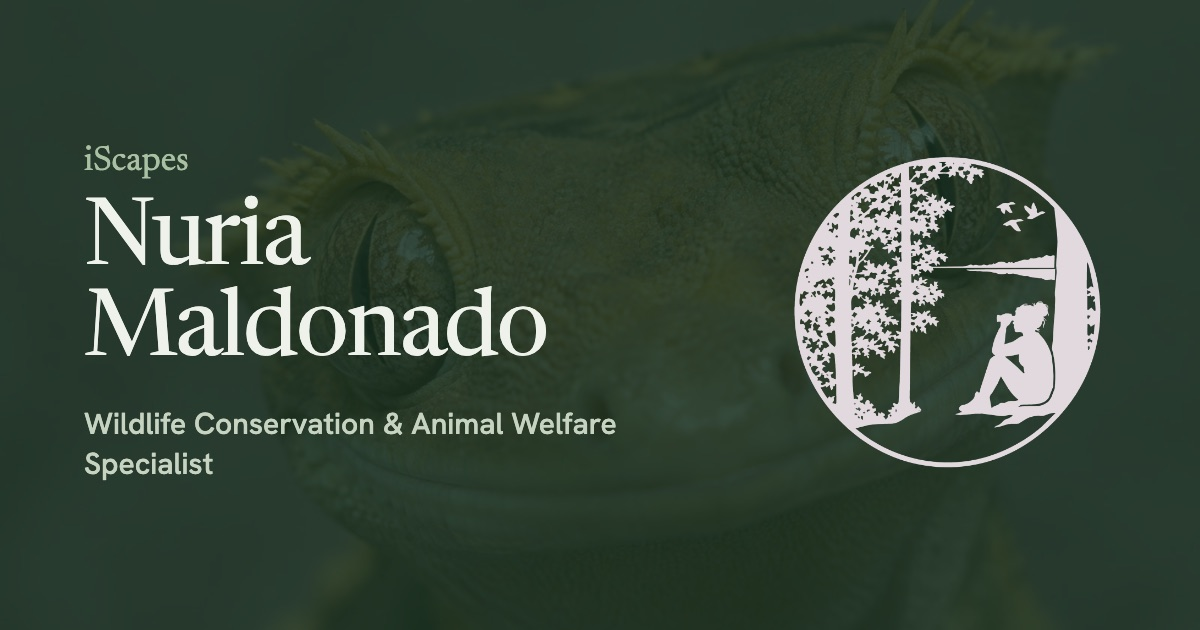
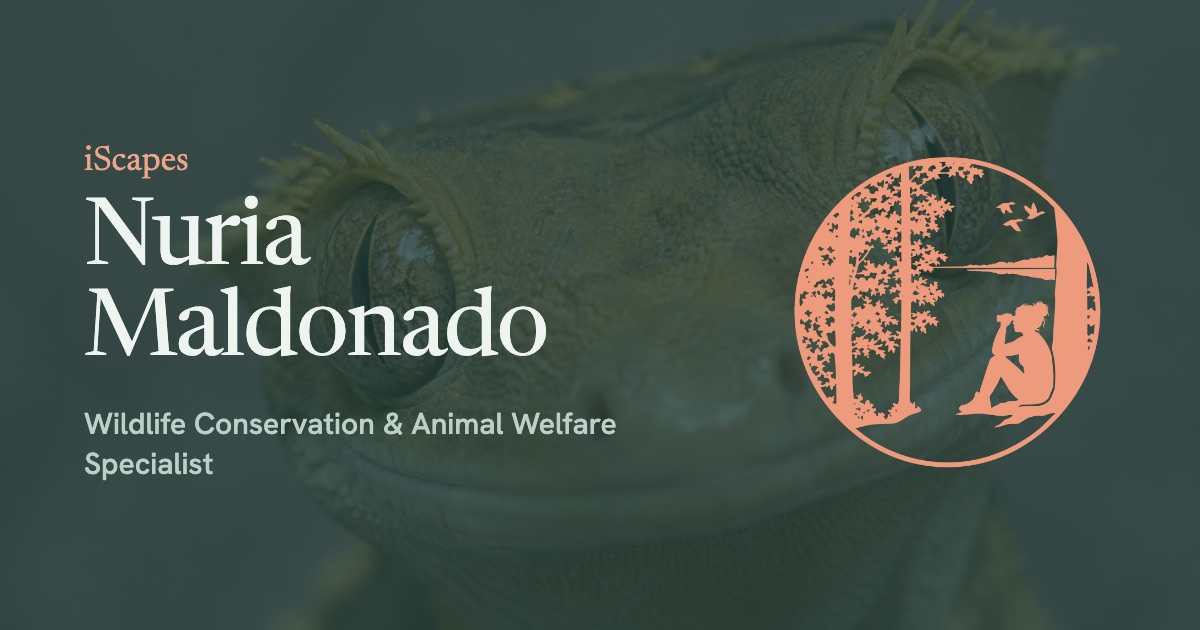
Eucalyptus & coral design
- Eucalyptus first section and contact, pale mint quote, light page
- Coral logo, tagline and buttons; deep coral details on light sections
- Single look for all visitors (no separate dark-mode palette)
- Preview cards, favicon and home-screen icon remade in the new colours
- Unused logo colours removed

diff --git a/assets/site.css b/assets/site.css
@@ -1,13 +1,11 @@
-:root{--bg:#F5F6F2;--ink:#111A14;--mute:#4D5B50;--line:#D3D9CF;--forest:#16301F;--forest-ink:#EEF2EA;--sage:#A9C0A2;--btn:#16301F;--btn-ink:#F5F6F2;--hero-bg:#EFE3D2;--hero-ink:#2B1D12;--hero-mute:#6E5643;--hero-line:#B9A58F;--accent:#A0522D;--accent-ink:#FFF6EC;
+:root{--bg:#F5F8F6;--ink:#16302B;--mute:#4C625D;--line:#D3DFDA;--forest:#1F3D37;--forest-ink:#EEF5F1;--forest-mute:#BCD0C8;--sage:#9CC5B8;--btn:#EE9A7C;--btn-ink:#2A120A;--hero-bg:#1F3D37;--hero-ink:#EEF5F1;--hero-mute:#BCD0C8;--hero-line:#4F716A;--accent:#F0A58A;--quote-bg:#DDEAE4;--quote-ink:#16302B;--quote-cite:#9C4429;--deep:#B45237;
 box-sizing:border-box;padding-top:env(safe-area-inset-top,0px);padding-bottom:env(safe-area-inset-bottom,0px);color-scheme:light}
-@media (prefers-color-scheme:dark){:root:not([data-theme="light"]){--hero-bg:#2A1E16;--hero-ink:#F2E6D6;--hero-mute:#C9B49E;--hero-line:#6E5A48;--accent:#D98A5F;--accent-ink:#24170F;--bg:#0F1712;--ink:#E9EEE6;--mute:#9AA99C;--line:#26362B;--forest:#1B3A26;--btn:#A9C0A2;--btn-ink:#0F1712;color-scheme:dark}}
-:root[data-theme="dark"]{--hero-bg:#2A1E16;--hero-ink:#F2E6D6;--hero-mute:#C9B49E;--hero-line:#6E5A48;--accent:#D98A5F;--accent-ink:#24170F;--bg:#0F1712;--ink:#E9EEE6;--mute:#9AA99C;--line:#26362B;--forest:#1B3A26;--btn:#A9C0A2;--btn-ink:#0F1712;color-scheme:dark}
 *,*::before,*::after{box-sizing:border-box}
 html{scroll-padding-top:env(safe-area-inset-top,0px);scroll-behavior:smooth}
 body{margin:0;background:var(--bg);color:var(--ink);font:400 1.0625rem/1.65 "Hanken Grotesk",system-ui,sans-serif;-webkit-font-smoothing:antialiased}
 h1,h2,h3,blockquote{font-family:"Newsreader",Georgia,serif;font-weight:400;margin:0}
 a{color:inherit}
-:focus-visible{outline:2px solid var(--sage);outline-offset:3px}
+:focus-visible{outline:2px solid var(--deep);outline-offset:3px}
 .wrap{max-width:1160px;margin:0 auto;padding:0 clamp(20px,5vw,56px)}
 .logo{display:block;width:100%;height:auto}
 
@@ -24,11 +22,9 @@ nav a:hover{color:var(--hero-ink)}
 .hero::after{content:"";position:absolute;inset:-120px 0 0;z-index:-2;background:var(--hero-bg)}
 .hero .role,.hero .lead{color:var(--hero-mute)}
 .hero .tag{color:var(--accent)}
-.hero .btn{background:var(--accent);border-color:var(--accent);color:var(--accent-ink)}
+.hero .btn{background:var(--btn);border-color:var(--btn);color:var(--btn-ink)}
 .hero .btn.ghost{background:transparent;color:var(--hero-ink);border-color:var(--hero-ink)}
-.hero::before{content:"";position:absolute;inset:-120px 0 0;z-index:-1;background:url(gecko.jpg) 62% 40%/cover no-repeat;opacity:.15;-webkit-mask-image:linear-gradient(to bottom,#000 55%,transparent);mask-image:linear-gradient(to bottom,#000 55%,transparent)}
-@media (prefers-color-scheme:dark){:root:not([data-theme="light"]) .hero::before{opacity:.2}}
-:root[data-theme="dark"] .hero::before{opacity:.2}
+.hero::before{content:"";position:absolute;inset:-120px 0 0;z-index:-1;background:url(gecko.jpg) 62% 40%/cover no-repeat;opacity:.24;-webkit-mask-image:linear-gradient(to bottom,#000 55%,transparent);mask-image:linear-gradient(to bottom,#000 55%,transparent)}
 .hero .wrap{display:grid;grid-template-columns:1.15fr .85fr;gap:clamp(32px,6vw,88px);align-items:center}
 .hero h1{font-size:clamp(2.9rem,7.2vw,6rem);line-height:.98;letter-spacing:-.02em}
 .role{margin:22px 0 0;font-size:1.2rem;color:var(--mute)}
@@ -44,17 +40,18 @@ nav a:hover{color:var(--hero-ink)}
 @keyframes rise{from{opacity:0;transform:translateY(18px)}}
 @media(max-width:820px){.hero .wrap{grid-template-columns:1fr}.hero figure{order:-1;max-width:260px;justify-self:start}}
 
-.quote{background:var(--forest);color:var(--forest-ink);padding:clamp(64px,10vw,130px) 0;position:relative;overflow:hidden}
+.quote{background:var(--quote-bg);color:var(--quote-ink);padding:clamp(64px,10vw,130px) 0;position:relative;overflow:hidden}
 .quote .wrap{position:relative}
 .quote blockquote{font-size:clamp(1.8rem,4.2vw,3.3rem);line-height:1.2;max-width:22ch;letter-spacing:-.01em}
 .quote cite{display:block;margin-top:28px;font:500 1rem "Hanken Grotesk",sans-serif;color:var(--sage);font-style:normal}
+.quote cite{color:var(--quote-cite)}
 
 section.block{padding:clamp(64px,9vw,120px) 0}
 .about .wrap{display:grid;grid-template-columns:.8fr 1.2fr;gap:clamp(28px,6vw,96px)}
 h2{font-size:clamp(2rem,4vw,3.1rem);line-height:1.08;letter-spacing:-.015em}
 .about .sub{margin-top:18px;color:var(--mute);max-width:20rem}
 .about p{margin:0 0 1.15em;max-width:38rem}
-.about .mission{font-family:"Newsreader",serif;font-size:1.55rem;line-height:1.35;border-left:3px solid var(--sage);padding-left:22px;margin-top:2em}
+.about .mission{font-family:"Newsreader",serif;font-size:1.55rem;line-height:1.35;border-left:3px solid var(--deep);padding-left:22px;margin-top:2em}
 @media(max-width:820px){.about .wrap{grid-template-columns:1fr}}
 
 .expertise{border-top:1px solid var(--line)}
@@ -67,9 +64,9 @@ h2{font-size:clamp(2rem,4vw,3.1rem);line-height:1.08;letter-spacing:-.015em}
 
 .cta{background:var(--forest);color:var(--forest-ink);text-align:center;padding:clamp(72px,10vw,140px) 0}
 .cta h2{max-width:16ch;margin:0 auto 22px}
-.cta p{max-width:36rem;margin:0 auto 34px;color:#C5D3C0}
-.cta .btn{background:var(--forest-ink);color:#16301F;border-color:var(--forest-ink)}
-.cta .btns{justify-content:center}.cta .btn.ghost{background:transparent;color:var(--forest-ink);border-color:var(--sage)}.cta .direct{margin:26px auto 0;font-size:.98rem;color:#C5D3C0}.cta .small{margin:30px auto 0;font-family:"Newsreader",serif;font-style:italic;font-size:1.3rem;color:var(--sage)}
+.cta p{max-width:36rem;margin:0 auto 34px;color:var(--forest-mute)}
+.cta .btn{background:var(--btn);color:var(--btn-ink);border-color:var(--btn)}
+.cta .btns{justify-content:center}.cta .btn.ghost{background:transparent;color:var(--forest-ink);border-color:var(--forest-mute)}.cta .direct{margin:26px auto 0;font-size:.98rem;color:var(--forest-mute)}.cta .small{margin:30px auto 0;font-family:"Newsreader",serif;font-style:italic;font-size:1.3rem;color:var(--sage)}
 
 .photo{margin:0}
 .photo img{display:block;width:100%;height:auto;border-radius:22px;object-fit:cover;background:var(--line)}
@@ -82,7 +79,7 @@ h2{font-size:clamp(2rem,4vw,3.1rem);line-height:1.08;letter-spacing:-.015em}
 .exp-grid .photo img{aspect-ratio:4/5}
 .exp-grid .row{grid-template-columns:1fr;gap:8px}
 @media(max-width:820px){.exp-grid{grid-template-columns:1fr}.exp-grid .photo{position:static}.exp-grid .photo img{aspect-ratio:4/3;object-position:50% 30%}}
-.avatar{display:block;width:120px;height:120px;margin:0 auto 24px;border-radius:50%;object-fit:cover}
+.avatar{display:block;width:120px;height:120px;margin:0 auto 24px;border-radius:50%;object-fit:cover;box-shadow:0 0 0 3px var(--btn)}
 
 footer{padding:36px 0;color:var(--mute);font-size:.92rem}
 footer .wrap{display:flex;flex-wrap:wrap;justify-content:space-between;gap:10px}

diff --git a/es/index.html b/es/index.html
@@ -40,7 +40,7 @@
 <p class="lead">Consultoría independiente en conservación de fauna silvestre, bienestar animal y biodiversidad, que combina experiencia internacional en investigación con conocimiento práctico en la conservación del elefante de bosque y el chimpancé.</p>
 <div class="btns"><a class="btn" href="#contact">Trabajemos juntos</a><a class="btn ghost" href="#expertise">Ver especialidades</a></div>
 </div>
-<figure><picture><source srcset="../assets/logo-cream.png" media="(prefers-color-scheme: dark)"><img class="logo" src="../assets/logo-brown.png" alt="Logotipo de iScapes: una mujer con prismáticos sentada junto a un árbol frente a un lago, con pájaros volando" width="600" height="600"></picture></figure>
+<figure><img class="logo" src="../assets/logo-coral.png" alt="Logotipo de iScapes: una mujer con prismáticos sentada junto a un árbol frente a un lago, con pájaros volando" width="600" height="600"></figure>
 </div></section>
 
 

diff --git a/index.html b/index.html
@@ -40,7 +40,7 @@
 <p class="lead">Independent consultancy in wildlife conservation, animal welfare and biodiversity, combining international research experience with practical expertise in forest elephant and chimpanzee conservation.</p>
 <div class="btns"><a class="btn" href="#contact">Let’s work together</a><a class="btn ghost" href="#expertise">See expertise</a></div>
 </div>
-<figure><picture><source srcset="assets/logo-cream.png" media="(prefers-color-scheme: dark)"><img class="logo" src="assets/logo-brown.png" alt="iScapes logo: a woman with binoculars sits against a tree beside a lake, birds flying overhead" width="600" height="600"></picture></figure>
+<figure><img class="logo" src="assets/logo-coral.png" alt="iScapes logo: a woman with binoculars sits against a tree beside a lake, birds flying overhead" width="600" height="600"></figure>
 </div></section>
 
 
